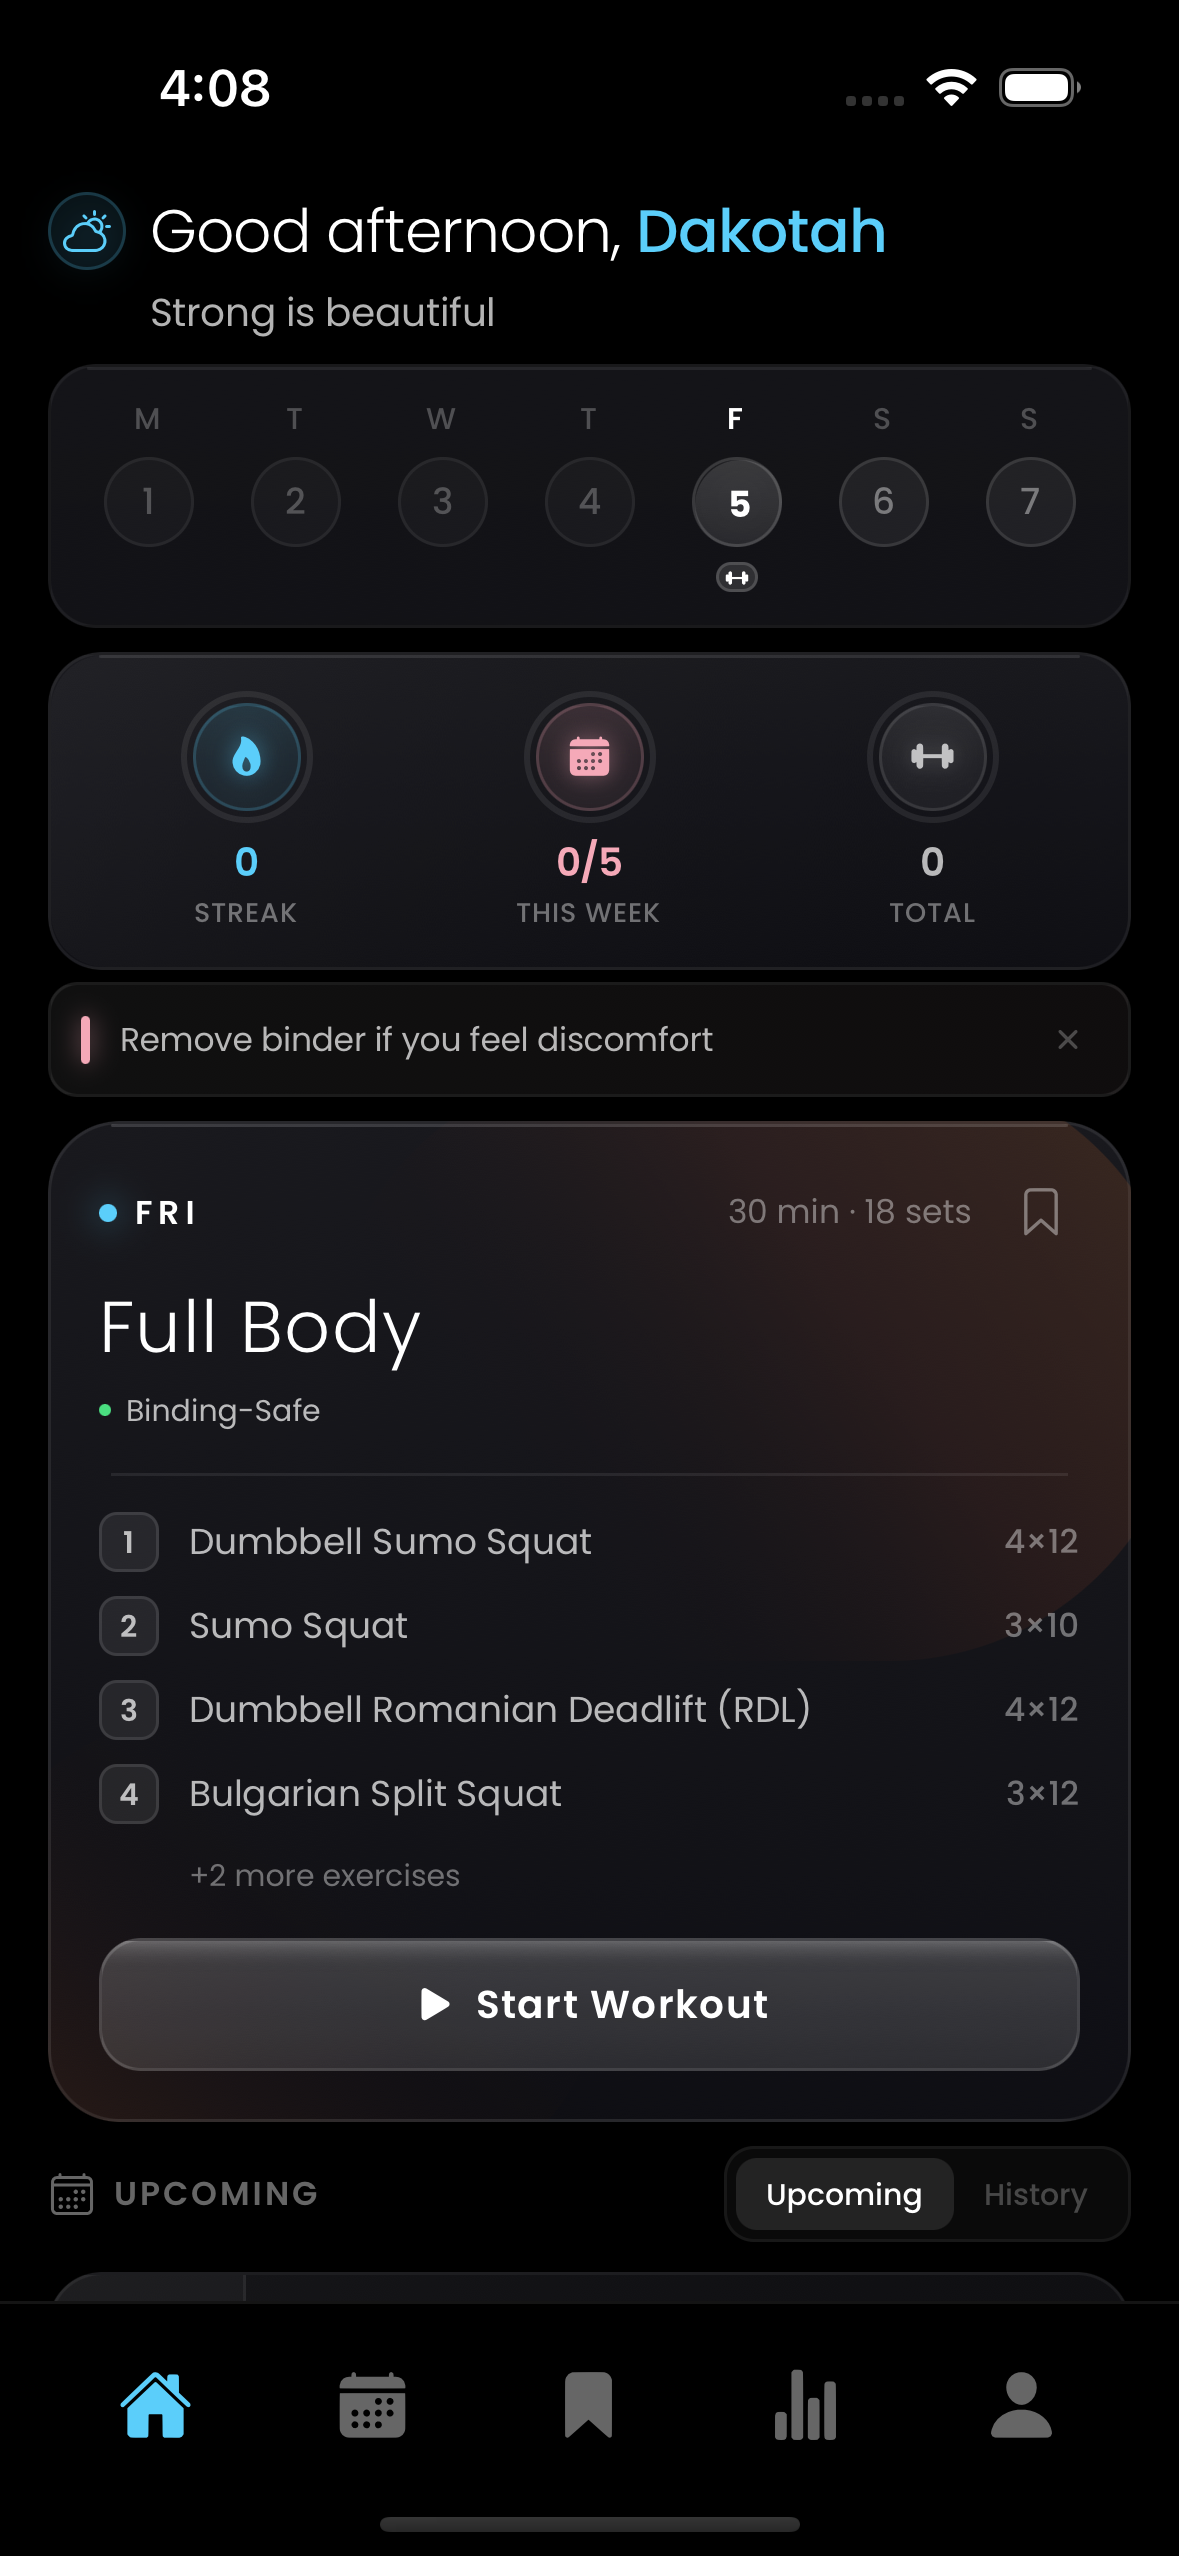
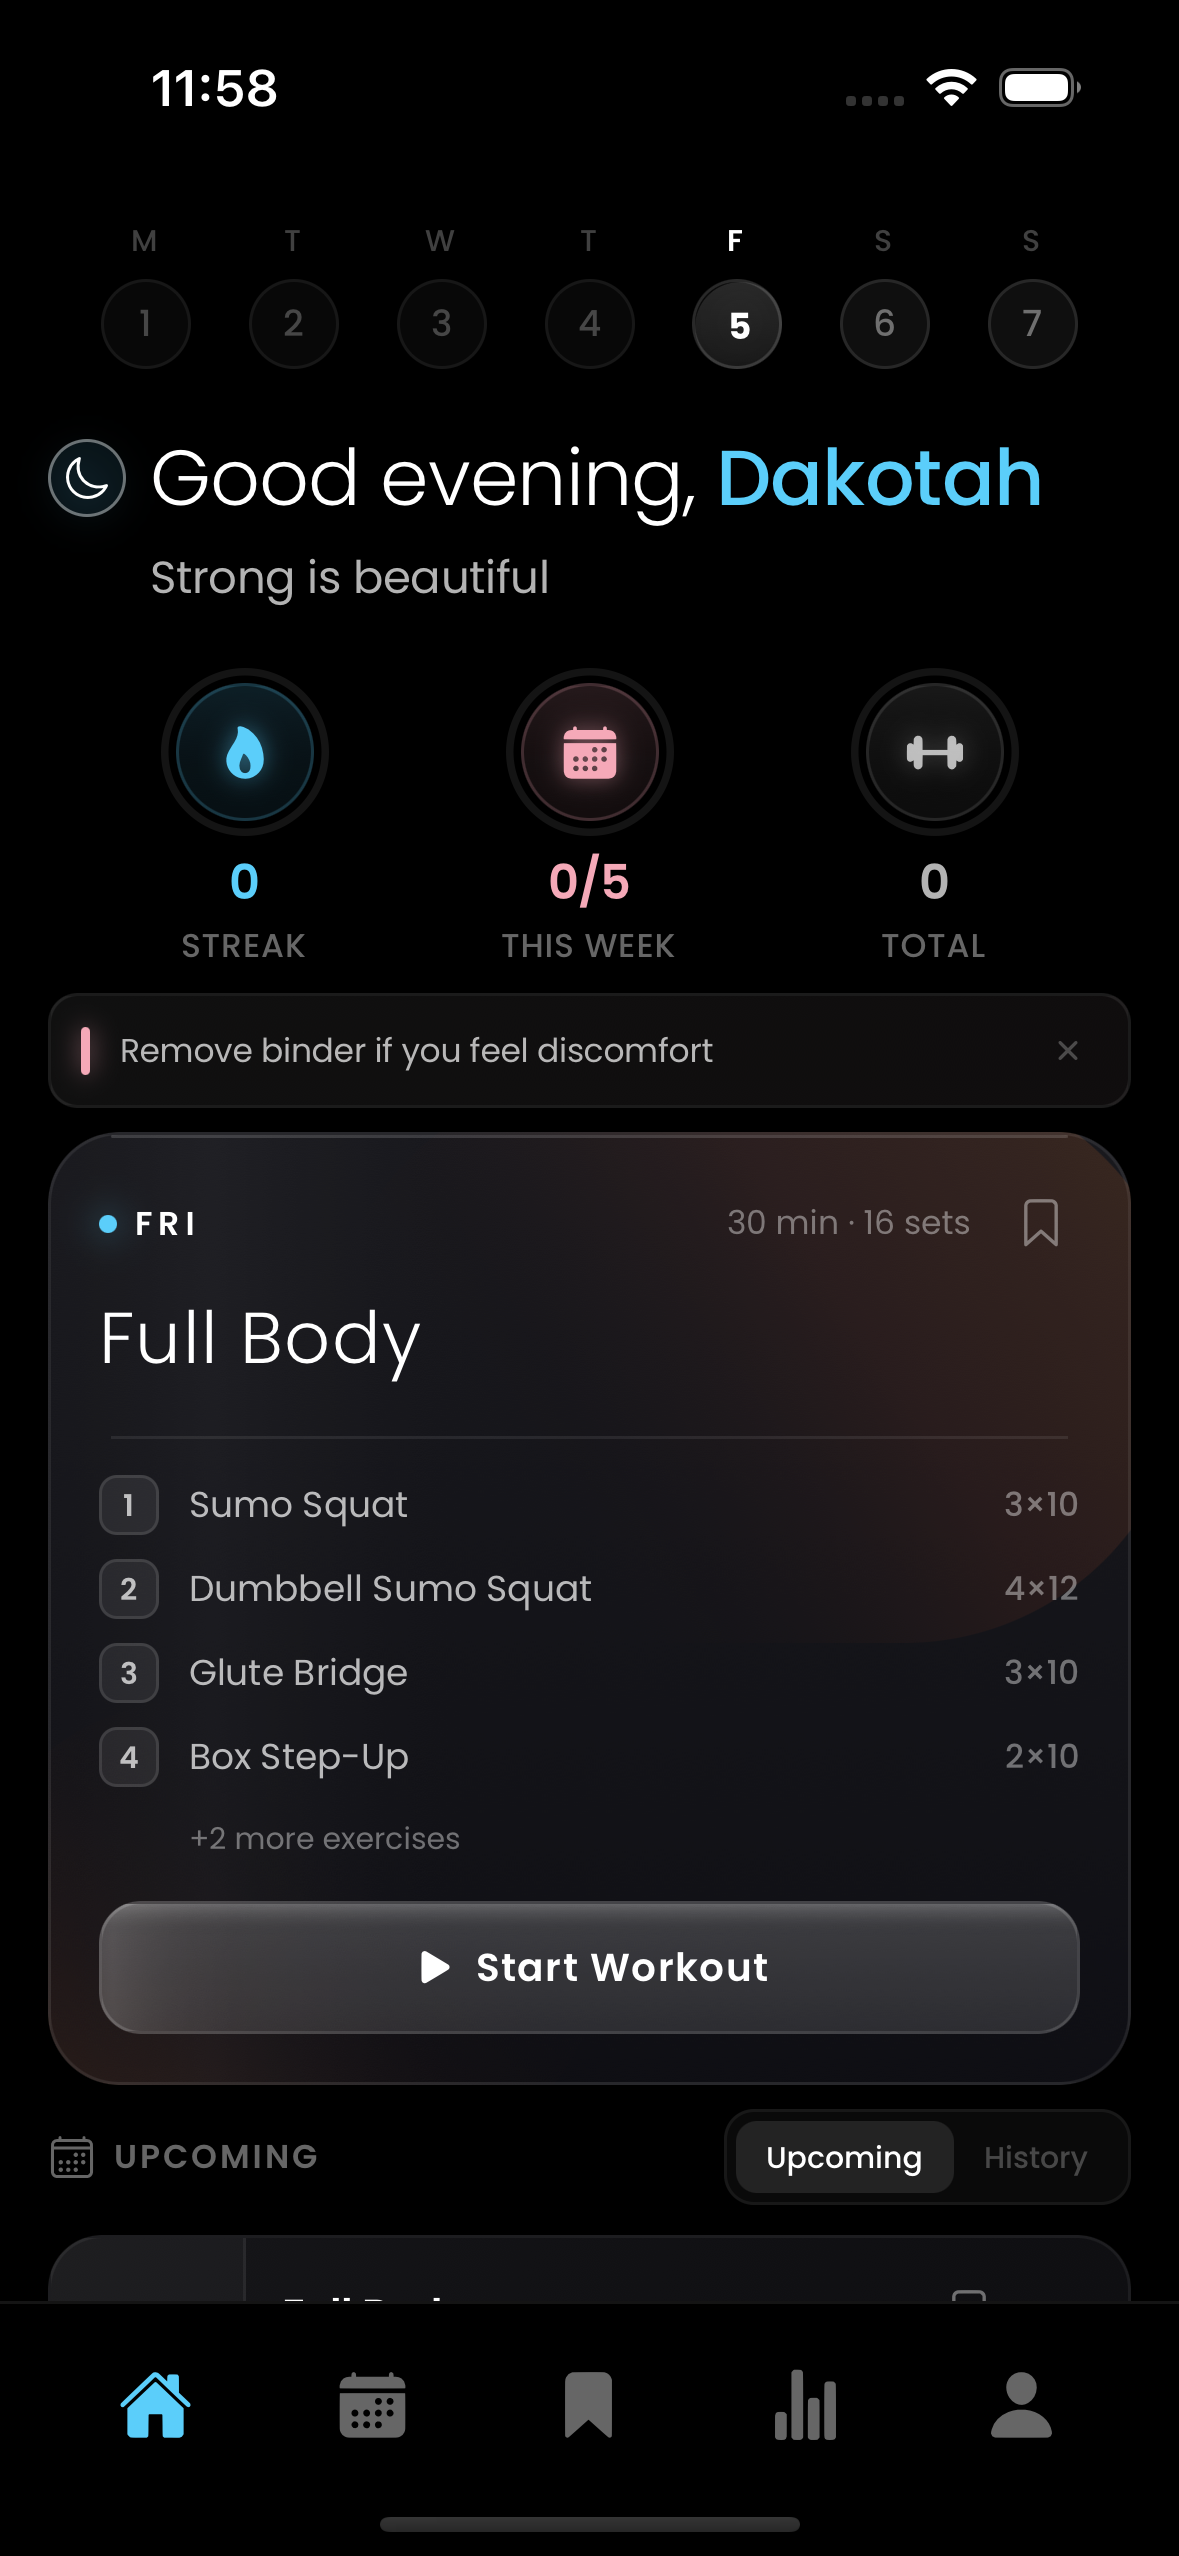
Update landing and home page components

diff --git a/src/components/home/Statcard.tsx b/src/components/home/Statcard.tsx
@@ -110,8 +110,8 @@ function CircularStat({ icon, value, label, progress = 0, accentColor }: Circula
         {/* Progress ring */}
         <ProgressRing
           progress={progress}
-          size={44}
-          strokeWidth={2}
+          size={56}
+          strokeWidth={2.5}
           color={accent.color}
         />
 
@@ -123,7 +123,7 @@ function CircularStat({ icon, value, label, progress = 0, accentColor }: Circula
           />
           <Ionicons
             name={icon}
-            size={15}
+            size={20}
             color={accent.color}
             style={[
               styles.icon,
@@ -174,21 +174,6 @@ export function StatsRow({
 
   return (
     <View style={styles.container}>
-      {/* Deep glass background */}
-      <LinearGradient
-        colors={['rgba(25, 25, 30, 0.9)', 'rgba(15, 15, 20, 0.95)']}
-        style={StyleSheet.absoluteFill}
-      />
-      {/* Subtle top highlight */}
-      <View style={styles.glassHighlight} />
-      {/* Subtle glow overlay */}
-      <LinearGradient
-        colors={['rgba(255, 255, 255, 0.04)', 'transparent']}
-        start={{ x: 0, y: 0 }}
-        end={{ x: 1, y: 1 }}
-        style={styles.glassBackground}
-      />
-
       <CircularStat
         icon="flame"
         value={streak}
@@ -237,43 +222,17 @@ const styles = StyleSheet.create({
     flexDirection: 'row',
     justifyContent: 'space-around',
     alignItems: 'flex-start',
-    paddingVertical: 12,
+    paddingTop: 12,
+    paddingBottom: 8,
     paddingHorizontal: 8,
-    borderRadius: 18,
-    backgroundColor: 'rgba(25, 25, 30, 0.7)',
-    borderWidth: 1,
-    borderColor: 'rgba(255, 255, 255, 0.06)',
-    overflow: 'hidden',
-    ...Platform.select({
-      ios: {
-        shadowColor: '#000',
-        shadowOffset: { width: 0, height: 10 },
-        shadowOpacity: 0.3,
-        shadowRadius: 20,
-      },
-      android: { elevation: 6 },
-    }),
-  },
-  glassBackground: {
-    ...StyleSheet.absoluteFillObject,
-    borderRadius: 18,
-  },
-  glassHighlight: {
-    position: 'absolute',
-    top: 0,
-    left: 16,
-    right: 16,
-    height: 1,
-    backgroundColor: 'rgba(255, 255, 255, 0.1)',
-    borderRadius: 1,
   },
   statItem: {
     alignItems: 'center',
     flex: 1,
   },
   circleContainer: {
-    width: 44,
-    height: 44,
+    width: 56,
+    height: 56,
     justifyContent: 'center',
     alignItems: 'center',
     marginBottom: 4,
@@ -282,9 +241,9 @@ const styles = StyleSheet.create({
     position: 'absolute',
   },
   innerCircle: {
-    width: 36,
-    height: 36,
-    borderRadius: 18,
+    width: 46,
+    height: 46,
+    borderRadius: 23,
     justifyContent: 'center',
     alignItems: 'center',
     borderWidth: 1,
@@ -295,14 +254,14 @@ const styles = StyleSheet.create({
   },
   value: {
     fontFamily: 'Poppins',
-    fontSize: 13,
+    fontSize: 16,
     fontWeight: '600',
     letterSpacing: -0.3,
-    marginBottom: 1,
+    marginBottom: 2,
   },
   label: {
     fontFamily: 'Poppins',
-    fontSize: 9,
+    fontSize: 11,
     fontWeight: '500',
     color: colors.text.tertiary,
     letterSpacing: 0.3,

diff --git a/src/components/home/ThisWeekSection.tsx b/src/components/home/ThisWeekSection.tsx
@@ -63,14 +63,6 @@ export default function ThisWeekSection({ weekDays }: ThisWeekSectionProps) {
 
   return (
     <View style={styles.container}>
-      {/* Glass background */}
-      <LinearGradient
-        colors={['rgba(25, 25, 30, 0.6)', 'rgba(20, 20, 25, 0.7)']}
-        style={StyleSheet.absoluteFill}
-      />
-      {/* Top highlight */}
-      <View style={styles.glassHighlight} />
-
       {/* Week strip */}
       <View style={styles.weekStrip}>
         {allDays.map((day, index) => (
@@ -112,18 +104,6 @@ export default function ThisWeekSection({ weekDays }: ThisWeekSectionProps) {
               </View>
             )}
 
-            {/* Indicator - only show barbell for today */}
-            <View style={styles.indicatorContainer}>
-              {day.isToday && day.hasWorkout && !day.completed && (
-                <View style={styles.workoutIndicatorToday}>
-                  <Ionicons
-                    name="barbell"
-                    size={8}
-                    color={colors.text.primary}
-                  />
-                </View>
-              )}
-            </View>
           </View>
         ))}
       </View>
@@ -135,30 +115,7 @@ const styles = StyleSheet.create({
   container: {
     paddingVertical: 10,
     paddingHorizontal: 8,
-    borderRadius: 16,
-    backgroundColor: 'rgba(25, 25, 30, 0.5)',
-    borderWidth: 1,
-    borderColor: 'rgba(255, 255, 255, 0.05)',
-    overflow: 'hidden',
     marginBottom: 8,
-    ...Platform.select({
-      ios: {
-        shadowColor: '#000',
-        shadowOffset: { width: 0, height: 8 },
-        shadowOpacity: 0.25,
-        shadowRadius: 16,
-      },
-      android: { elevation: 4 },
-    }),
-  },
-  glassHighlight: {
-    position: 'absolute',
-    top: 0,
-    left: 12,
-    right: 12,
-    height: 1,
-    backgroundColor: 'rgba(255, 255, 255, 0.08)',
-    borderRadius: 1,
   },
   weekStrip: {
     flexDirection: 'row',
@@ -236,21 +193,5 @@ const styles = StyleSheet.create({
   },
   dayNumberPast: {
     color: colors.text.disabled,
-  },
-  indicatorContainer: {
-    height: 12,
-    marginTop: 4,
-    justifyContent: 'center',
-    alignItems: 'center',
-  },
-  workoutIndicatorToday: {
-    width: 14,
-    height: 10,
-    borderRadius: 5,
-    backgroundColor: 'rgba(255, 255, 255, 0.12)',
-    borderWidth: 1,
-    borderColor: 'rgba(255, 255, 255, 0.15)',
-    justifyContent: 'center',
-    alignItems: 'center',
   },
 });

diff --git a/landing/src/components/WhatIs.tsx b/landing/src/components/WhatIs.tsx
@@ -138,10 +138,10 @@ export function WhatIs() {
           transition={{ duration: 0.6 }}
           className="text-center mb-10 md:mb-16 lg:mb-20"
         >
-          <h2 className="text-3xl md:text-4xl lg:text-5xl font-bold text-text-primary mb-6">
+          <h2 className="text-[1.625rem] md:text-4xl lg:text-5xl font-bold text-text-primary mb-6">
             What is{" "}
             <span className="relative inline-block">
-              <span className="text-gradient">Trans Health & Fitness</span>
+              <span className="text-gradient">Trans Health & Fitness?</span>
               <motion.span
                 className="absolute -bottom-2 left-0 right-0 h-1 bg-gradient-to-r from-accent-blue via-accent-pink to-accent-blue rounded-full"
                 initial={{ scaleX: 0 }}
@@ -150,7 +150,6 @@ export function WhatIs() {
                 transition={{ duration: 0.8, delay: 0.5 }}
               />
             </span>
-            ?
           </h2>
 
           <p className="text-lg md:text-xl text-text-secondary leading-relaxed max-w-2xl mx-auto">
@@ -171,7 +170,7 @@ export function WhatIs() {
             whileInView={{ opacity: 1, x: 0, scale: 1 }}
             viewport={viewportSettings}
             transition={{ duration: 0.8, ease: [0.25, 0.1, 0.25, 1] }}
-            className="lg:col-span-5 flex items-center justify-center lg:sticky lg:top-32 lg:self-start"
+            className="lg:col-span-5 flex items-center justify-center lg:sticky lg:top-32 lg:self-start pb-16 lg:pb-0"
           >
             {/* Phone Frame with scroll-driven motion */}
             <motion.div

diff --git a/src/components/home/WelcomeSection.tsx b/src/components/home/WelcomeSection.tsx
@@ -48,7 +48,7 @@ export default function WelcomeSection({ userName }: WelcomeSectionProps) {
           <Ionicons
             name={getTimeIcon()}
             size={16}
-            color={colors.accent.primary}
+            color={colors.text.primary}
           />
         </View>
         <Text style={styles.greeting}>
@@ -76,7 +76,7 @@ const styles = StyleSheet.create({
     borderRadius: 13,
     backgroundColor: colors.glass.bgHero,
     borderWidth: 1,
-    borderColor: colors.glass.borderCyan,
+    borderColor: colors.text.tertiary,
     justifyContent: 'center',
     alignItems: 'center',
     ...Platform.select({
@@ -91,7 +91,7 @@ const styles = StyleSheet.create({
   },
   greeting: {
     fontFamily: 'Poppins',
-    fontSize: 20,
+    fontSize: 26,
     fontWeight: '300',
     color: colors.text.primary,
     letterSpacing: -0.3,
@@ -102,7 +102,7 @@ const styles = StyleSheet.create({
   },
   motivation: {
     fontFamily: 'Poppins',
-    fontSize: 13,
+    fontSize: 15,
     fontWeight: '400',
     color: colors.text.secondary,
     letterSpacing: -0.1,

diff --git a/src/screens/main/HomeScreen.tsx b/src/screens/main/HomeScreen.tsx
@@ -296,17 +296,17 @@ export default function HomeScreen() {
         {/* Safe area spacer */}
         <View style={{ height: insets.top + 4 }} />
 
-        {/* 1. Welcome Section */}
-        <WelcomeSection />
-
-        {/* 2. Week Calendar */}
+        {/* 1. Week Calendar */}
         {plan && plan.days && plan.days.length > 0 && (
           <View style={styles.weekSection}>
             <ThisWeekSection weekDays={weekDays} todayName={todayName} />
           </View>
         )}
 
-        {/* 3. Stats Section (below welcome) */}
+        {/* 2. Welcome Section */}
+        <WelcomeSection />
+
+        {/* 3. Stats Section */}
         <View style={styles.statsSection}>
           <StatsRow
             streak={currentStreak}
@@ -389,7 +389,7 @@ const styles = StyleSheet.create({
     marginBottom: 8,
   },
   statsSection: {
-    marginBottom: 4,
+    marginBottom: 0,
   },
   restDayCard: {
     height: 150,

diff --git a/landing/src/components/Hero.tsx b/landing/src/components/Hero.tsx
@@ -82,8 +82,8 @@ export function Hero() {
                 ))}
               </div>
               <div className="text-sm">
-                <span className="text-text-primary font-semibold">50+ athletes</span>
-                <span className="text-text-tertiary"> already signed up</span>
+                <span className="text-text-primary font-semibold">Spots filling fast</span>
+                <span className="text-text-tertiary"> — limited founding access</span>
               </div>
             </motion.div>
           </motion.div>

diff --git a/src/components/home/TodaysReminderCard.tsx b/src/components/home/TodaysReminderCard.tsx
@@ -3,15 +3,8 @@ import { View, Text, StyleSheet, Pressable, Platform } from 'react-native';
 import { Ionicons } from '@expo/vector-icons';
 import { LinearGradient } from 'expo-linear-gradient';
 import { colors } from '../../theme/theme';
-import { useProfile } from '../../hooks/useProfile';
 
 export default function TodaysReminderCard() {
-  const { profile } = useProfile();
-
-  if (!profile?.binds_chest) {
-    return null;
-  }
-
   return (
     <View style={styles.container}>
       {/* Subtle glass background */}

diff --git a/landing/src/lib/animations.ts b/landing/src/lib/animations.ts
@@ -68,6 +68,6 @@ export const accordionContent = {
 
 export const viewportSettings = {
   once: true,
-  margin: "-100px",
-  amount: 0.2,
+  margin: "0px",
+  amount: 0.1,
 };
